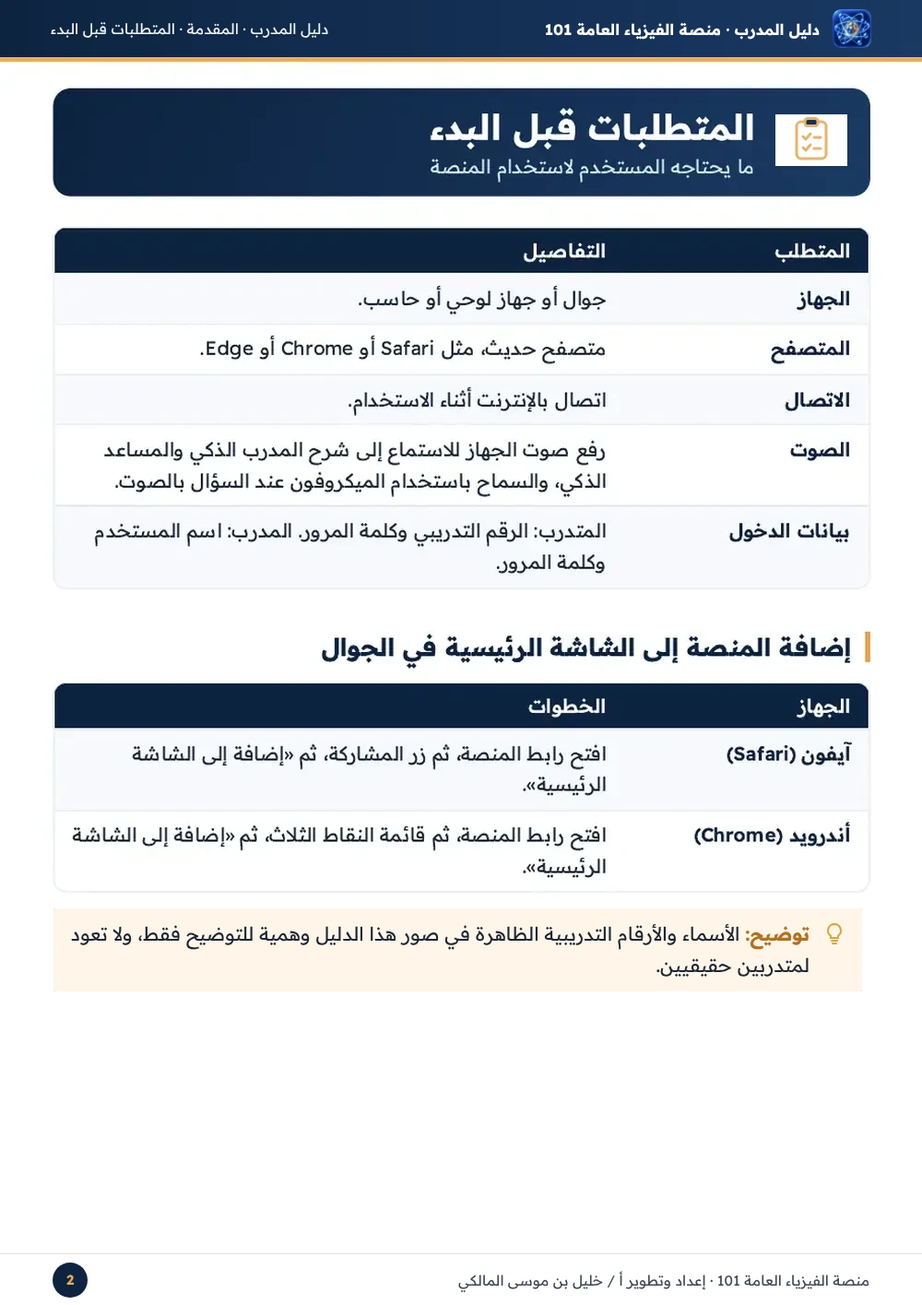
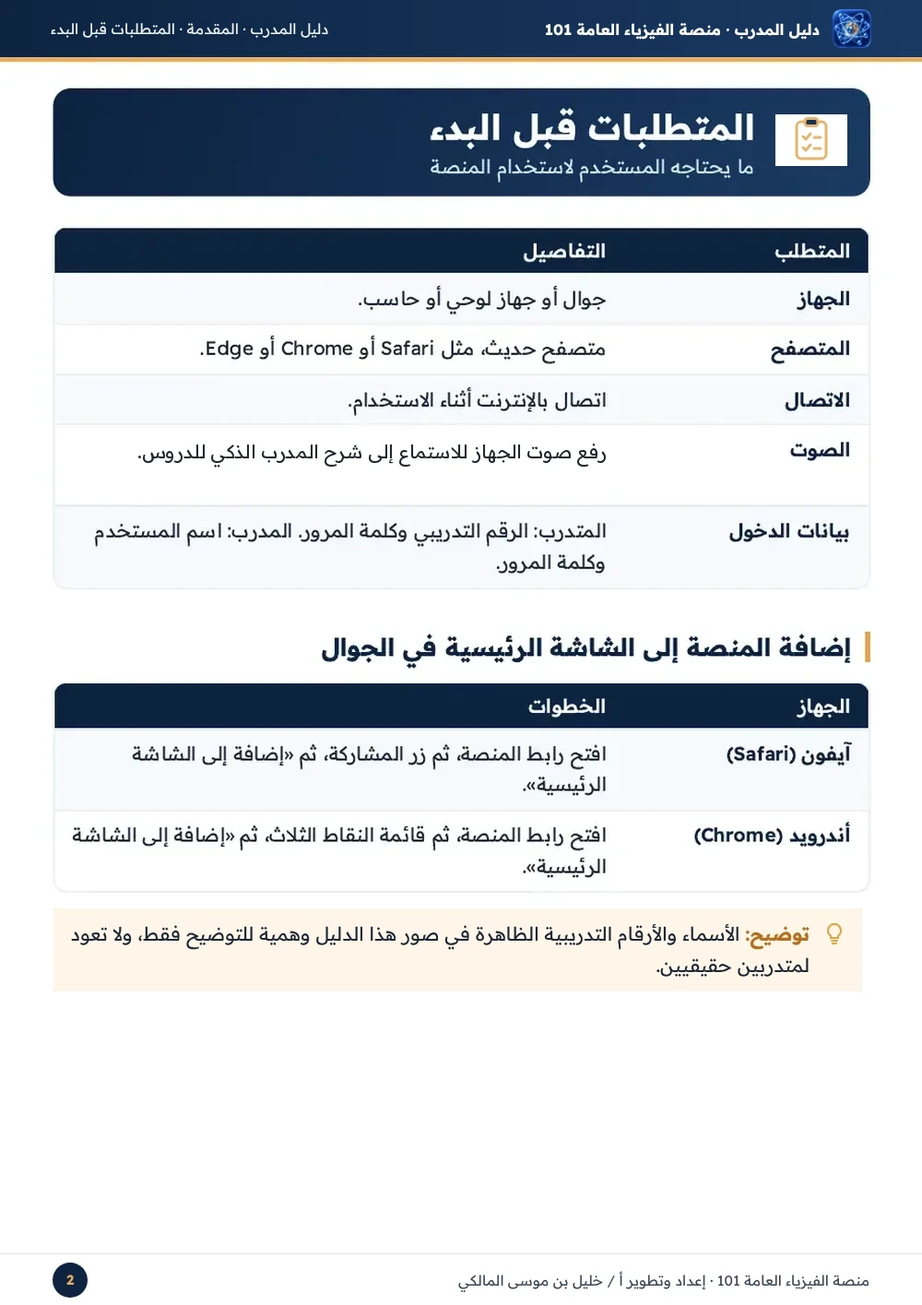
صفحة المتطلبات في دليلي المدرب والمتدرب: حذف السؤال بالصوت والميكروفون
Claude-Session: https://claude.ai/code/session_01PuEvYFgE27idXTycqsFmp6

Changed region(s): [[0.124, 0.342, 0.651, 0.3731]]

diff --git a/guide.html b/guide.html
@@ -18,7 +18,7 @@ main{max-width:920px;margin:0 auto;padding:12px 10px 40px;padding-left:max(10px,
 <header><img src="icon-192.png" alt=""><h1>دليل المتدرب</h1><button type="button" id="tg">☰ الفهرس</button><a href="index.html">↩ المنصة</a></header>
 <main><nav class="toc" id="toc"><h2>☰ محتويات دليل المتدرب</h2><a href="#p2"><span>•</span>المتطلبات قبل البدء</a><div class="stg"><b>1</b>مرحلة البدء</div><a href="#p3"><span>1-1</span>البدء: الدخول وتعيين كلمة المرور</a><a href="#p7"><span>1-2</span>الصفحة الرئيسية واختيار الدرس</a><div class="stg"><b>2</b>مرحلة الشرح</div><a href="#p8"><span>2-1</span>شرح الدرس على السبورة مع المدرب الذكي</a><a href="#p12"><span>2-2</span>مهام الدروس</a><div class="stg"><b>3</b>مرحلة التدريب</div><a href="#p13"><span>3-1</span>الأمثلة والتمارين التفاعلية</a><a href="#p17"><span>3-2</span>اختبر نفسك والآلة الحاسبة</a><a href="#p19"><span>3-3</span>التجارب العملية التفاعلية</a><a href="#p22"><span>3-4</span>المساعد الذكي وتقييم الدرس</a><div class="stg"><b>4</b>مرحلة الإنهاء</div><a href="#p25"><span>4-1</span>إنهاء الدرس والانتقال للدرس التالي</a><a href="#p27"><span>4-2</span>الإعدادات: الصوت والوضع الليلي</a><div class="stg"><b>5</b>مرحلة الاختبارات والخروج</div><a href="#p29"><span>5-1</span>الاختبارات التجريبية</a><a href="#p33"><span>5-2</span>تسجيل الخروج</a></nav>
 <p class="note">كبر الصفحة بإصبعين لقراءة التفاصيل.</p>
-<img id="p1" class="pg" src="gtr-01.webp?v=1104k" width="1000" height="1415" alt="دليل المتدرب - صفحة 1" loading="eager" decoding="async"><img id="p2" class="pg" src="gtr-02.webp?v=1104k" width="1000" height="1415" alt="دليل المتدرب - صفحة 2" loading="eager" decoding="async"><img id="p3" class="pg" src="gtr-03.webp?v=1104k" width="1000" height="1415" alt="دليل المتدرب - صفحة 3" loading="lazy" decoding="async"><img id="p4" class="pg" src="gtr-04.webp?v=1104k" width="1000" height="1415" alt="دليل المتدرب - صفحة 4" loading="lazy" decoding="async"><img id="p5" class="pg" src="gtr-05.webp?v=1104k" width="1000" height="1415" alt="دليل المتدرب - صفحة 5" loading="lazy" decoding="async"><img id="p6" class="pg" src="gtr-06.webp?v=1104k" width="1000" height="1415" alt="دليل المتدرب - صفحة 6" loading="lazy" decoding="async"><img id="p7" class="pg" src="gtr-07.webp?v=1104k" width="1000" height="1415" alt="دليل المتدرب - صفحة 7" loading="lazy" decoding="async"><img id="p8" class="pg" src="gtr-08.webp?v=1104k" width="1000" height="1415" alt="دليل المتدرب - صفحة 8" loading="lazy" decoding="async"><img id="p9" class="pg" src="gtr-09.webp?v=1104k" width="1000" height="1415" alt="دليل المتدرب - صفحة 9" loading="lazy" decoding="async"><img id="p10" class="pg" src="gtr-10.webp?v=1104k" width="1000" height="1415" alt="دليل المتدرب - صفحة 10" loading="lazy" decoding="async"><img id="p11" class="pg" src="gtr-11.webp?v=1104k" width="1000" height="1415" alt="دليل المتدرب - صفحة 11" loading="lazy" decoding="async"><img id="p12" class="pg" src="gtr-12.webp?v=1104k" width="1000" height="1415" alt="دليل المتدرب - صفحة 12" loading="lazy" decoding="async"><img id="p13" class="pg" src="gtr-13.webp?v=1104k" width="1000" height="1415" alt="دليل المتدرب - صفحة 13" loading="lazy" decoding="async"><img id="p14" class="pg" src="gtr-14.webp?v=1104k" width="1000" height="1415" alt="دليل المتدرب - صفحة 14" loading="lazy" decoding="async"><img id="p15" class="pg" src="gtr-15.webp?v=1104k" width="1000" height="1415" alt="دليل المتدرب - صفحة 15" loading="lazy" decoding="async"><img id="p16" class="pg" src="gtr-16.webp?v=1104k" width="1000" height="1415" alt="دليل المتدرب - صفحة 16" loading="lazy" decoding="async"><img id="p17" class="pg" src="gtr-17.webp?v=1104k" width="1000" height="1415" alt="دليل المتدرب - صفحة 17" loading="lazy" decoding="async"><img id="p18" class="pg" src="gtr-18.webp?v=1104k" width="1000" height="1415" alt="دليل المتدرب - صفحة 18" loading="lazy" decoding="async"><img id="p19" class="pg" src="gtr-19.webp?v=1104k" width="1000" height="1415" alt="دليل المتدرب - صفحة 19" loading="lazy" decoding="async"><img id="p20" class="pg" src="gtr-20.webp?v=1104k" width="1000" height="1415" alt="دليل المتدرب - صفحة 20" loading="lazy" decoding="async"><img id="p21" class="pg" src="gtr-21.webp?v=1104k" width="1000" height="1415" alt="دليل المتدرب - صفحة 21" loading="lazy" decoding="async"><img id="p22" class="pg" src="gtr-22.webp?v=1104k" width="1000" height="1415" alt="دليل المتدرب - صفحة 22" loading="lazy" decoding="async"><img id="p23" class="pg" src="gtr-23.webp?v=1104k" width="1000" height="1415" alt="دليل المتدرب - صفحة 23" loading="lazy" decoding="async"><img id="p24" class="pg" src="gtr-24.webp?v=1104k" width="1000" height="1415" alt="دليل المتدرب - صفحة 24" loading="lazy" decoding="async"><img id="p25" class="pg" src="gtr-25.webp?v=1104k" width="1000" height="1415" alt="دليل المتدرب - صفحة 25" loading="lazy" decoding="async"><img id="p26" class="pg" src="gtr-26.webp?v=1104k" width="1000" height="1415" alt="دليل المتدرب - صفحة 26" loading="lazy" decoding="async"><img id="p27" class="pg" src="gtr-27.webp?v=1104k" width="1000" height="1415" alt="دليل المتدرب - صفحة 27" loading="lazy" decoding="async"><img id="p28" class="pg" src="gtr-28.webp?v=1104k" width="1000" height="1415" alt="دليل المتدرب - صفحة 28" loading="lazy" decoding="async"><img id="p29" class="pg" src="gtr-29.webp?v=1104k" width="1000" height="1415" alt="دليل المتدرب - صفحة 29" loading="lazy" decoding="async"><img id="p30" class="pg" src="gtr-30.webp?v=1104k" width="1000" height="1415" alt="دليل المتدرب - صفحة 30" loading="lazy" decoding="async"><img id="p31" class="pg" src="gtr-31.webp?v=1104k" width="1000" height="1415" alt="دليل المتدرب - صفحة 31" loading="lazy" decoding="async"><img id="p32" class="pg" src="gtr-32.webp?v=1104k" width="1000" height="1415" alt="دليل المتدرب - صفحة 32" loading="lazy" decoding="async"><img id="p33" class="pg" src="gtr-33.webp?v=1104k" width="1000" height="1415" alt="دليل المتدرب - صفحة 33" loading="lazy" decoding="async"></main>
+<img id="p1" class="pg" src="gtr-01.webp?v=1104l" width="1000" height="1415" alt="دليل المتدرب - صفحة 1" loading="eager" decoding="async"><img id="p2" class="pg" src="gtr-02.webp?v=1104l" width="1000" height="1415" alt="دليل المتدرب - صفحة 2" loading="eager" decoding="async"><img id="p3" class="pg" src="gtr-03.webp?v=1104l" width="1000" height="1415" alt="دليل المتدرب - صفحة 3" loading="lazy" decoding="async"><img id="p4" class="pg" src="gtr-04.webp?v=1104l" width="1000" height="1415" alt="دليل المتدرب - صفحة 4" loading="lazy" decoding="async"><img id="p5" class="pg" src="gtr-05.webp?v=1104l" width="1000" height="1415" alt="دليل المتدرب - صفحة 5" loading="lazy" decoding="async"><img id="p6" class="pg" src="gtr-06.webp?v=1104l" width="1000" height="1415" alt="دليل المتدرب - صفحة 6" loading="lazy" decoding="async"><img id="p7" class="pg" src="gtr-07.webp?v=1104l" width="1000" height="1415" alt="دليل المتدرب - صفحة 7" loading="lazy" decoding="async"><img id="p8" class="pg" src="gtr-08.webp?v=1104l" width="1000" height="1415" alt="دليل المتدرب - صفحة 8" loading="lazy" decoding="async"><img id="p9" class="pg" src="gtr-09.webp?v=1104l" width="1000" height="1415" alt="دليل المتدرب - صفحة 9" loading="lazy" decoding="async"><img id="p10" class="pg" src="gtr-10.webp?v=1104l" width="1000" height="1415" alt="دليل المتدرب - صفحة 10" loading="lazy" decoding="async"><img id="p11" class="pg" src="gtr-11.webp?v=1104l" width="1000" height="1415" alt="دليل المتدرب - صفحة 11" loading="lazy" decoding="async"><img id="p12" class="pg" src="gtr-12.webp?v=1104l" width="1000" height="1415" alt="دليل المتدرب - صفحة 12" loading="lazy" decoding="async"><img id="p13" class="pg" src="gtr-13.webp?v=1104l" width="1000" height="1415" alt="دليل المتدرب - صفحة 13" loading="lazy" decoding="async"><img id="p14" class="pg" src="gtr-14.webp?v=1104l" width="1000" height="1415" alt="دليل المتدرب - صفحة 14" loading="lazy" decoding="async"><img id="p15" class="pg" src="gtr-15.webp?v=1104l" width="1000" height="1415" alt="دليل المتدرب - صفحة 15" loading="lazy" decoding="async"><img id="p16" class="pg" src="gtr-16.webp?v=1104l" width="1000" height="1415" alt="دليل المتدرب - صفحة 16" loading="lazy" decoding="async"><img id="p17" class="pg" src="gtr-17.webp?v=1104l" width="1000" height="1415" alt="دليل المتدرب - صفحة 17" loading="lazy" decoding="async"><img id="p18" class="pg" src="gtr-18.webp?v=1104l" width="1000" height="1415" alt="دليل المتدرب - صفحة 18" loading="lazy" decoding="async"><img id="p19" class="pg" src="gtr-19.webp?v=1104l" width="1000" height="1415" alt="دليل المتدرب - صفحة 19" loading="lazy" decoding="async"><img id="p20" class="pg" src="gtr-20.webp?v=1104l" width="1000" height="1415" alt="دليل المتدرب - صفحة 20" loading="lazy" decoding="async"><img id="p21" class="pg" src="gtr-21.webp?v=1104l" width="1000" height="1415" alt="دليل المتدرب - صفحة 21" loading="lazy" decoding="async"><img id="p22" class="pg" src="gtr-22.webp?v=1104l" width="1000" height="1415" alt="دليل المتدرب - صفحة 22" loading="lazy" decoding="async"><img id="p23" class="pg" src="gtr-23.webp?v=1104l" width="1000" height="1415" alt="دليل المتدرب - صفحة 23" loading="lazy" decoding="async"><img id="p24" class="pg" src="gtr-24.webp?v=1104l" width="1000" height="1415" alt="دليل المتدرب - صفحة 24" loading="lazy" decoding="async"><img id="p25" class="pg" src="gtr-25.webp?v=1104l" width="1000" height="1415" alt="دليل المتدرب - صفحة 25" loading="lazy" decoding="async"><img id="p26" class="pg" src="gtr-26.webp?v=1104l" width="1000" height="1415" alt="دليل المتدرب - صفحة 26" loading="lazy" decoding="async"><img id="p27" class="pg" src="gtr-27.webp?v=1104l" width="1000" height="1415" alt="دليل المتدرب - صفحة 27" loading="lazy" decoding="async"><img id="p28" class="pg" src="gtr-28.webp?v=1104l" width="1000" height="1415" alt="دليل المتدرب - صفحة 28" loading="lazy" decoding="async"><img id="p29" class="pg" src="gtr-29.webp?v=1104l" width="1000" height="1415" alt="دليل المتدرب - صفحة 29" loading="lazy" decoding="async"><img id="p30" class="pg" src="gtr-30.webp?v=1104l" width="1000" height="1415" alt="دليل المتدرب - صفحة 30" loading="lazy" decoding="async"><img id="p31" class="pg" src="gtr-31.webp?v=1104l" width="1000" height="1415" alt="دليل المتدرب - صفحة 31" loading="lazy" decoding="async"><img id="p32" class="pg" src="gtr-32.webp?v=1104l" width="1000" height="1415" alt="دليل المتدرب - صفحة 32" loading="lazy" decoding="async"><img id="p33" class="pg" src="gtr-33.webp?v=1104l" width="1000" height="1415" alt="دليل المتدرب - صفحة 33" loading="lazy" decoding="async"></main>
 <button class="top" type="button" id="up" aria-label="إلى الأعلى">↑</button>
 <script>
 const T=document.getElementById('toc');document.getElementById('tg').onclick=()=>{T.hidden=false;T.scrollIntoView({behavior:'smooth'})};

diff --git a/teacher-guide.html b/teacher-guide.html
@@ -18,7 +18,7 @@ main{max-width:920px;margin:0 auto;padding:12px 10px 40px;padding-left:max(10px,
 <header><img src="icon-192.png" alt=""><h1>دليل المدرب</h1><button type="button" id="tg">☰ الفهرس</button><a href="teacher.html">↩ لوحة المدرب</a></header>
 <main><nav class="toc" id="toc"><h2>☰ محتويات دليل المدرب</h2><a href="#p2"><span>•</span>المتطلبات قبل البدء</a><div class="stg"><b>1</b>مرحلة الدخول</div><a href="#p3"><span>1-1</span>الدخول إلى لوحة المدرب</a><a href="#p5"><span>1-2</span>الخصوصية وموافقة المتدربين</a><div class="stg"><b>2</b>مرحلة الإعدادات</div><a href="#p6"><span>2-1</span>رمز التسجيل لأول دخول</a><a href="#p7"><span>2-2</span>إضافة الشعب</a><a href="#p8"><span>2-3</span>رابط المنصة والمدرب الذكي</a><a href="#p10"><span>2-4</span>بيانات الدخول</a><a href="#p11"><span>2-5</span>إدارة المتدربين</a><a href="#p12"><span>2-6</span>توزيع نقاط مهام الدروس</a><div class="stg"><b>3</b>مرحلة متابعة الدروس</div><a href="#p13"><span>3-1</span>متابعة الدروس</a><a href="#p14"><span>3-2</span>سجل متابعة المتدرب</a><div class="stg"><b>4</b>مرحلة مهام الدروس</div><a href="#p15"><span>4-1</span>نقاط مهام الدروس</a><a href="#p16"><span>4-2</span>المؤشرات والمتابعة</a><a href="#p17"><span>4-3</span>بطاقة المتدرب</a><div class="stg"><b>5</b>مرحلة الاختبارات</div><a href="#p18"><span>5-1</span>الاختبارات: الشعب والمتدربون</a><a href="#p19"><span>5-2</span>فتح الاختبار والرمز والمدة</a><a href="#p20"><span>5-3</span>موعد الاختبار والإعدادات العامة</a><a href="#p21"><span>5-4</span>سجل نتائج الاختبارات</a><a href="#p22"><span>5-5</span>إعادة الاختبار والسماح بجهاز آخر</a><a href="#p23"><span>5-6</span>أوراق المتدربين</a><a href="#p24"><span>5-7</span>الورقة بعد الحل والطباعة</a><a href="#p25"><span>5-8</span>بنك الأسئلة وتصدير Word</a><div class="stg"><b>6</b>مرحلة الإحصائيات والتقارير</div><a href="#p26"><span>6-1</span>الإحصائيات والتقارير</a><a href="#p27"><span>6-2</span>التقييم ومدة شرح الدروس</a><div class="stg"><b>7</b>مرحلة الخروج</div><a href="#p28"><span>7-1</span>تسجيل الخروج</a></nav>
 <p class="note">كبر الصفحة بإصبعين لقراءة التفاصيل.</p>
-<img id="p1" class="pg" src="gtc-01.webp?v=1104k" width="1000" height="1415" alt="دليل المدرب - صفحة 1" loading="eager" decoding="async"><img id="p2" class="pg" src="gtc-02.webp?v=1104k" width="1000" height="1415" alt="دليل المدرب - صفحة 2" loading="eager" decoding="async"><img id="p3" class="pg" src="gtc-03.webp?v=1104k" width="1000" height="1415" alt="دليل المدرب - صفحة 3" loading="lazy" decoding="async"><img id="p4" class="pg" src="gtc-04.webp?v=1104k" width="1000" height="1415" alt="دليل المدرب - صفحة 4" loading="lazy" decoding="async"><img id="p5" class="pg" src="gtc-05.webp?v=1104k" width="1000" height="1415" alt="دليل المدرب - صفحة 5" loading="lazy" decoding="async"><img id="p6" class="pg" src="gtc-06.webp?v=1104k" width="1000" height="1415" alt="دليل المدرب - صفحة 6" loading="lazy" decoding="async"><img id="p7" class="pg" src="gtc-07.webp?v=1104k" width="1000" height="1415" alt="دليل المدرب - صفحة 7" loading="lazy" decoding="async"><img id="p8" class="pg" src="gtc-08.webp?v=1104k" width="1000" height="1415" alt="دليل المدرب - صفحة 8" loading="lazy" decoding="async"><img id="p9" class="pg" src="gtc-09.webp?v=1104k" width="1000" height="1415" alt="دليل المدرب - صفحة 9" loading="lazy" decoding="async"><img id="p10" class="pg" src="gtc-10.webp?v=1104k" width="1000" height="1415" alt="دليل المدرب - صفحة 10" loading="lazy" decoding="async"><img id="p11" class="pg" src="gtc-11.webp?v=1104k" width="1000" height="1415" alt="دليل المدرب - صفحة 11" loading="lazy" decoding="async"><img id="p12" class="pg" src="gtc-12.webp?v=1104k" width="1000" height="1415" alt="دليل المدرب - صفحة 12" loading="lazy" decoding="async"><img id="p13" class="pg" src="gtc-13.webp?v=1104k" width="1000" height="1415" alt="دليل المدرب - صفحة 13" loading="lazy" decoding="async"><img id="p14" class="pg" src="gtc-14.webp?v=1104k" width="1000" height="1415" alt="دليل المدرب - صفحة 14" loading="lazy" decoding="async"><img id="p15" class="pg" src="gtc-15.webp?v=1104k" width="1000" height="1415" alt="دليل المدرب - صفحة 15" loading="lazy" decoding="async"><img id="p16" class="pg" src="gtc-16.webp?v=1104k" width="1000" height="1415" alt="دليل المدرب - صفحة 16" loading="lazy" decoding="async"><img id="p17" class="pg" src="gtc-17.webp?v=1104k" width="1000" height="1415" alt="دليل المدرب - صفحة 17" loading="lazy" decoding="async"><img id="p18" class="pg" src="gtc-18.webp?v=1104k" width="1000" height="1415" alt="دليل المدرب - صفحة 18" loading="lazy" decoding="async"><img id="p19" class="pg" src="gtc-19.webp?v=1104k" width="1000" height="1415" alt="دليل المدرب - صفحة 19" loading="lazy" decoding="async"><img id="p20" class="pg" src="gtc-20.webp?v=1104k" width="1000" height="1415" alt="دليل المدرب - صفحة 20" loading="lazy" decoding="async"><img id="p21" class="pg" src="gtc-21.webp?v=1104k" width="1000" height="1415" alt="دليل المدرب - صفحة 21" loading="lazy" decoding="async"><img id="p22" class="pg" src="gtc-22.webp?v=1104k" width="1000" height="1415" alt="دليل المدرب - صفحة 22" loading="lazy" decoding="async"><img id="p23" class="pg" src="gtc-23.webp?v=1104k" width="1000" height="1415" alt="دليل المدرب - صفحة 23" loading="lazy" decoding="async"><img id="p24" class="pg" src="gtc-24.webp?v=1104k" width="1000" height="1415" alt="دليل المدرب - صفحة 24" loading="lazy" decoding="async"><img id="p25" class="pg" src="gtc-25.webp?v=1104k" width="1000" height="1415" alt="دليل المدرب - صفحة 25" loading="lazy" decoding="async"><img id="p26" class="pg" src="gtc-26.webp?v=1104k" width="1000" height="1415" alt="دليل المدرب - صفحة 26" loading="lazy" decoding="async"><img id="p27" class="pg" src="gtc-27.webp?v=1104k" width="1000" height="1415" alt="دليل المدرب - صفحة 27" loading="lazy" decoding="async"><img id="p28" class="pg" src="gtc-28.webp?v=1104k" width="1000" height="1415" alt="دليل المدرب - صفحة 28" loading="lazy" decoding="async"></main>
+<img id="p1" class="pg" src="gtc-01.webp?v=1104l" width="1000" height="1415" alt="دليل المدرب - صفحة 1" loading="eager" decoding="async"><img id="p2" class="pg" src="gtc-02.webp?v=1104l" width="1000" height="1415" alt="دليل المدرب - صفحة 2" loading="eager" decoding="async"><img id="p3" class="pg" src="gtc-03.webp?v=1104l" width="1000" height="1415" alt="دليل المدرب - صفحة 3" loading="lazy" decoding="async"><img id="p4" class="pg" src="gtc-04.webp?v=1104l" width="1000" height="1415" alt="دليل المدرب - صفحة 4" loading="lazy" decoding="async"><img id="p5" class="pg" src="gtc-05.webp?v=1104l" width="1000" height="1415" alt="دليل المدرب - صفحة 5" loading="lazy" decoding="async"><img id="p6" class="pg" src="gtc-06.webp?v=1104l" width="1000" height="1415" alt="دليل المدرب - صفحة 6" loading="lazy" decoding="async"><img id="p7" class="pg" src="gtc-07.webp?v=1104l" width="1000" height="1415" alt="دليل المدرب - صفحة 7" loading="lazy" decoding="async"><img id="p8" class="pg" src="gtc-08.webp?v=1104l" width="1000" height="1415" alt="دليل المدرب - صفحة 8" loading="lazy" decoding="async"><img id="p9" class="pg" src="gtc-09.webp?v=1104l" width="1000" height="1415" alt="دليل المدرب - صفحة 9" loading="lazy" decoding="async"><img id="p10" class="pg" src="gtc-10.webp?v=1104l" width="1000" height="1415" alt="دليل المدرب - صفحة 10" loading="lazy" decoding="async"><img id="p11" class="pg" src="gtc-11.webp?v=1104l" width="1000" height="1415" alt="دليل المدرب - صفحة 11" loading="lazy" decoding="async"><img id="p12" class="pg" src="gtc-12.webp?v=1104l" width="1000" height="1415" alt="دليل المدرب - صفحة 12" loading="lazy" decoding="async"><img id="p13" class="pg" src="gtc-13.webp?v=1104l" width="1000" height="1415" alt="دليل المدرب - صفحة 13" loading="lazy" decoding="async"><img id="p14" class="pg" src="gtc-14.webp?v=1104l" width="1000" height="1415" alt="دليل المدرب - صفحة 14" loading="lazy" decoding="async"><img id="p15" class="pg" src="gtc-15.webp?v=1104l" width="1000" height="1415" alt="دليل المدرب - صفحة 15" loading="lazy" decoding="async"><img id="p16" class="pg" src="gtc-16.webp?v=1104l" width="1000" height="1415" alt="دليل المدرب - صفحة 16" loading="lazy" decoding="async"><img id="p17" class="pg" src="gtc-17.webp?v=1104l" width="1000" height="1415" alt="دليل المدرب - صفحة 17" loading="lazy" decoding="async"><img id="p18" class="pg" src="gtc-18.webp?v=1104l" width="1000" height="1415" alt="دليل المدرب - صفحة 18" loading="lazy" decoding="async"><img id="p19" class="pg" src="gtc-19.webp?v=1104l" width="1000" height="1415" alt="دليل المدرب - صفحة 19" loading="lazy" decoding="async"><img id="p20" class="pg" src="gtc-20.webp?v=1104l" width="1000" height="1415" alt="دليل المدرب - صفحة 20" loading="lazy" decoding="async"><img id="p21" class="pg" src="gtc-21.webp?v=1104l" width="1000" height="1415" alt="دليل المدرب - صفحة 21" loading="lazy" decoding="async"><img id="p22" class="pg" src="gtc-22.webp?v=1104l" width="1000" height="1415" alt="دليل المدرب - صفحة 22" loading="lazy" decoding="async"><img id="p23" class="pg" src="gtc-23.webp?v=1104l" width="1000" height="1415" alt="دليل المدرب - صفحة 23" loading="lazy" decoding="async"><img id="p24" class="pg" src="gtc-24.webp?v=1104l" width="1000" height="1415" alt="دليل المدرب - صفحة 24" loading="lazy" decoding="async"><img id="p25" class="pg" src="gtc-25.webp?v=1104l" width="1000" height="1415" alt="دليل المدرب - صفحة 25" loading="lazy" decoding="async"><img id="p26" class="pg" src="gtc-26.webp?v=1104l" width="1000" height="1415" alt="دليل المدرب - صفحة 26" loading="lazy" decoding="async"><img id="p27" class="pg" src="gtc-27.webp?v=1104l" width="1000" height="1415" alt="دليل المدرب - صفحة 27" loading="lazy" decoding="async"><img id="p28" class="pg" src="gtc-28.webp?v=1104l" width="1000" height="1415" alt="دليل المدرب - صفحة 28" loading="lazy" decoding="async"></main>
 <button class="top" type="button" id="up" aria-label="إلى الأعلى">↑</button>
 <script>
 const T=document.getElementById('toc');document.getElementById('tg').onclick=()=>{T.hidden=false;T.scrollIntoView({behavior:'smooth'})};
